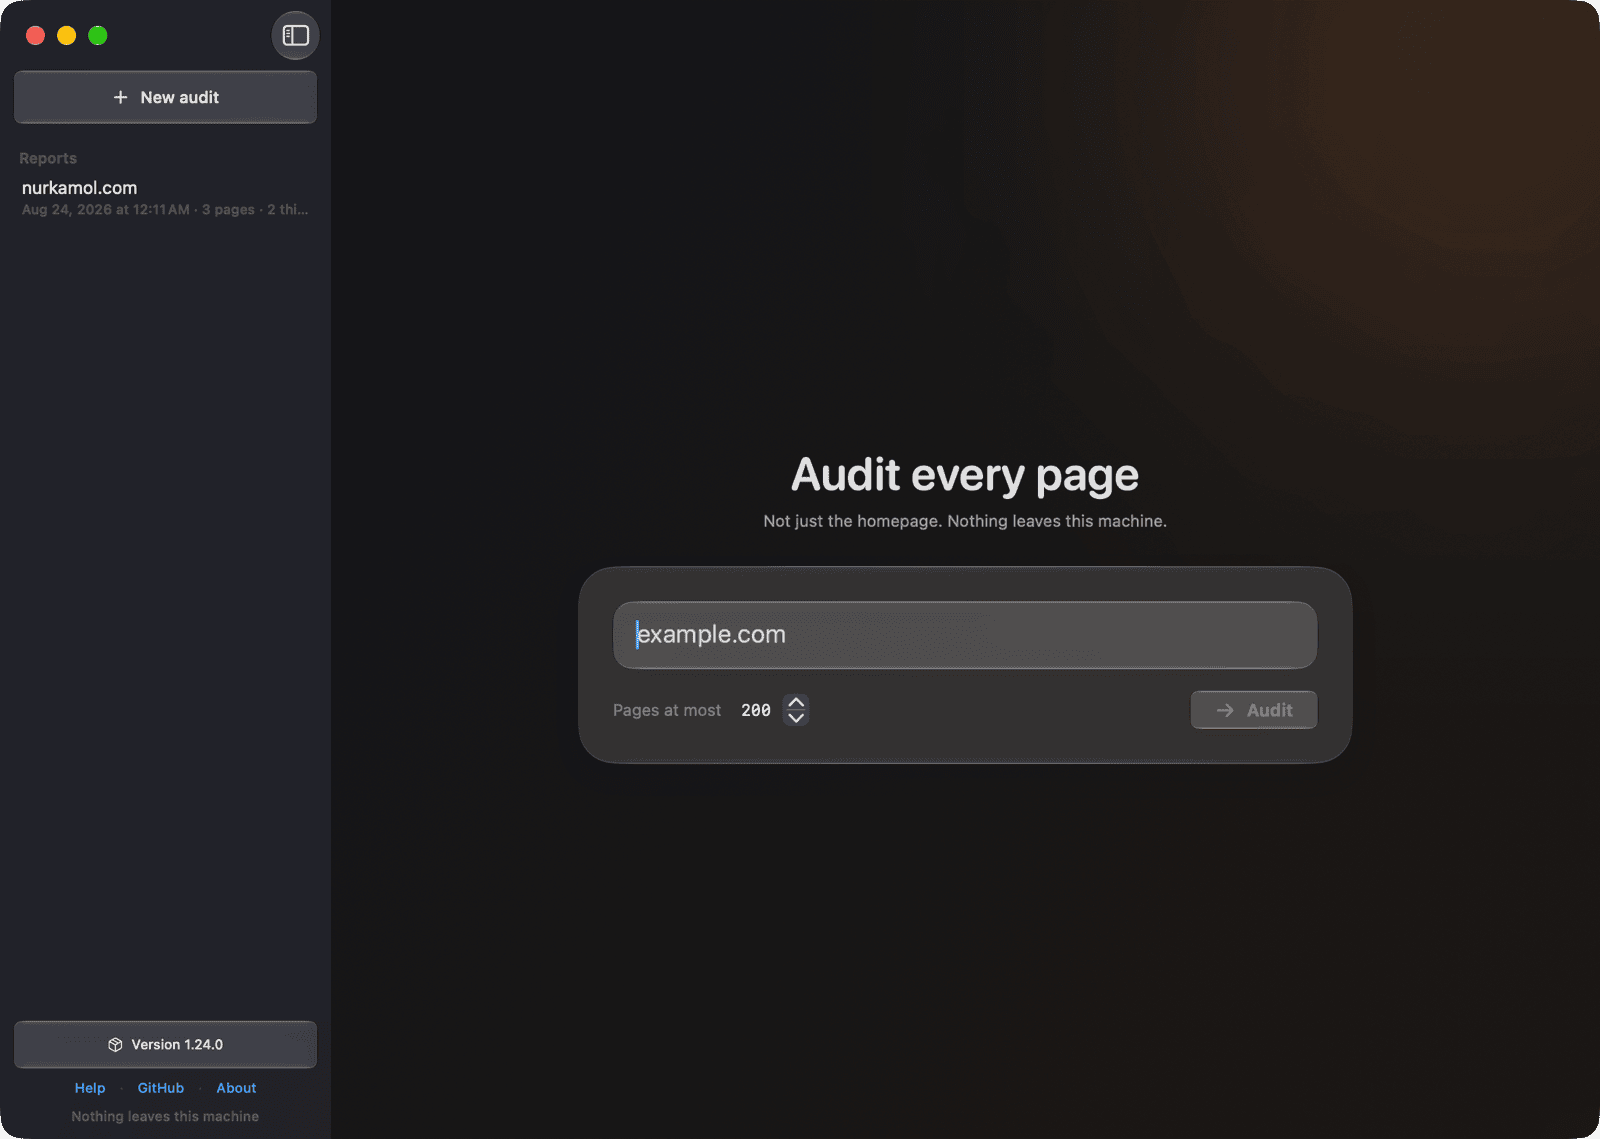
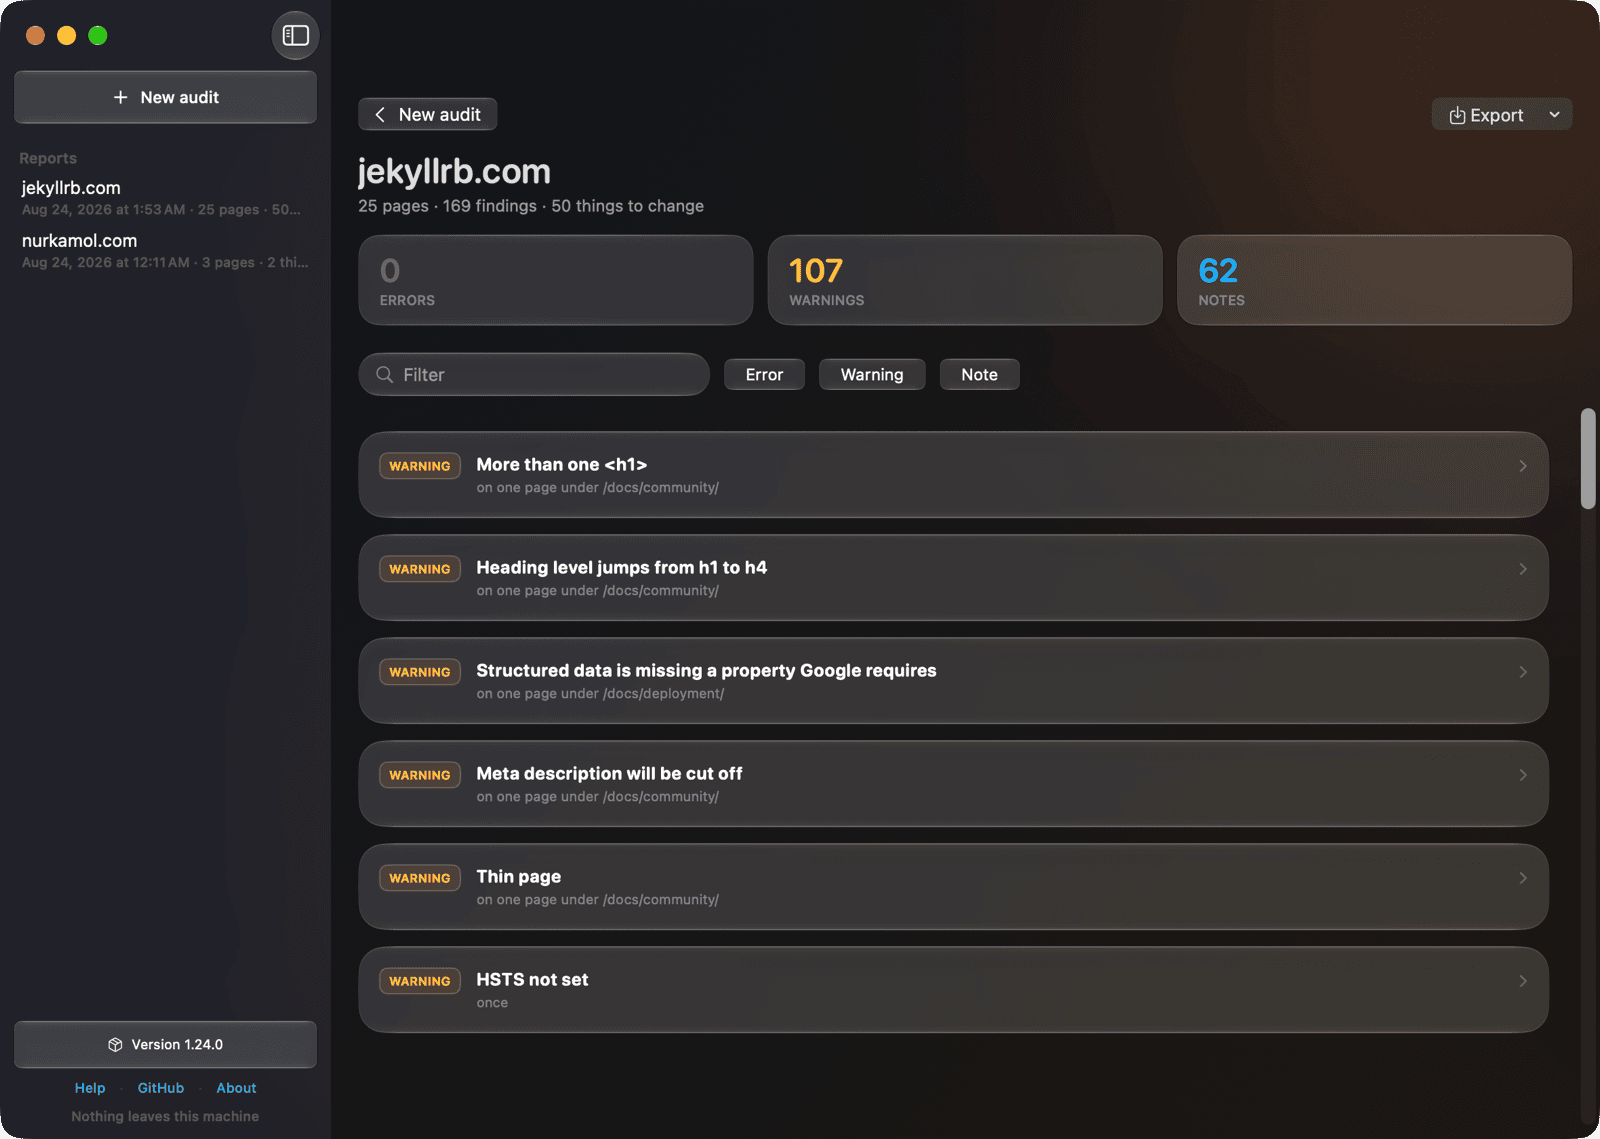
The app's screenshot is a report, not an empty field
169 findings on jekyllrb.com as 50 things to change, worst first, with the
sidebar and the new button in the same frame. An empty text box is what the app
looks like before it has done anything, which is the least interesting moment it
has.

The report behind it is real, produced by the same engine through the same
/stream the app uses.

diff --git a/docs/index.html b/docs/index.html
@@ -195,9 +195,12 @@
     report is a real report, and the PDF came out of the app's export.
   </p>
   <figure class="shot wide">
-    <img src="shots/app.png" alt="The macOS app: a sidebar of kept reports and a field to type a domain into"
+    <img src="shots/app.png" alt="The macOS app showing a report: 25 pages, 169 findings, 50 things to change, listed worst first"
          width="1600" height="1139" loading="lazy">
-    <figcaption>The macOS app. Type a domain, press return.</figcaption>
+    <figcaption>
+      The macOS app. 169 findings on jekyllrb.com are 50 things to change, worst first —
+      and every finished run stays in the sidebar.
+    </figcaption>
   </figure>
   <div class="shots">
     <figure class="shot">

diff --git a/CHANGELOG.md b/CHANGELOG.md
@@ -15,8 +15,9 @@ versions follow [Semantic Versioning](https://semver.org/spec/v2.0.0.html).
   on screen, and `⌘N` and File ▸ New Audit both work. A crawl in progress is
   stopped rather than left running into a window no longer showing it.
 
-- **The settings window is on the website**, next to a sentence about the one
-  setting that earned it.
+- **The settings window and a real report are on the website.** The app's shot
+  is now a 25-page audit of jekyllrb.com — 169 findings as 50 things to change —
+  rather than an empty field, because what the app is for is the report.
 
 ### Fixed
 - **The app kept its things in two folders.** The report library wrote to

diff --git a/README.md b/README.md
@@ -193,7 +193,7 @@ brew install --cask seo-audit
 ./mac/build.sh --run
 ```
 
-<p align="center"><img src="docs/shots/app.png" alt="The macOS app: a sidebar of kept reports, and a field to type a domain into" width="820"></p>
+<p align="center"><img src="docs/shots/app.png" alt="The macOS app showing a report: 25 pages, 169 findings, 50 things to change" width="820"></p>
 
 SwiftUI throughout, Liquid Glass, and the report drawn natively: cause cards
 that expand into the pages they affect, filtering, search, and export as PDF,
